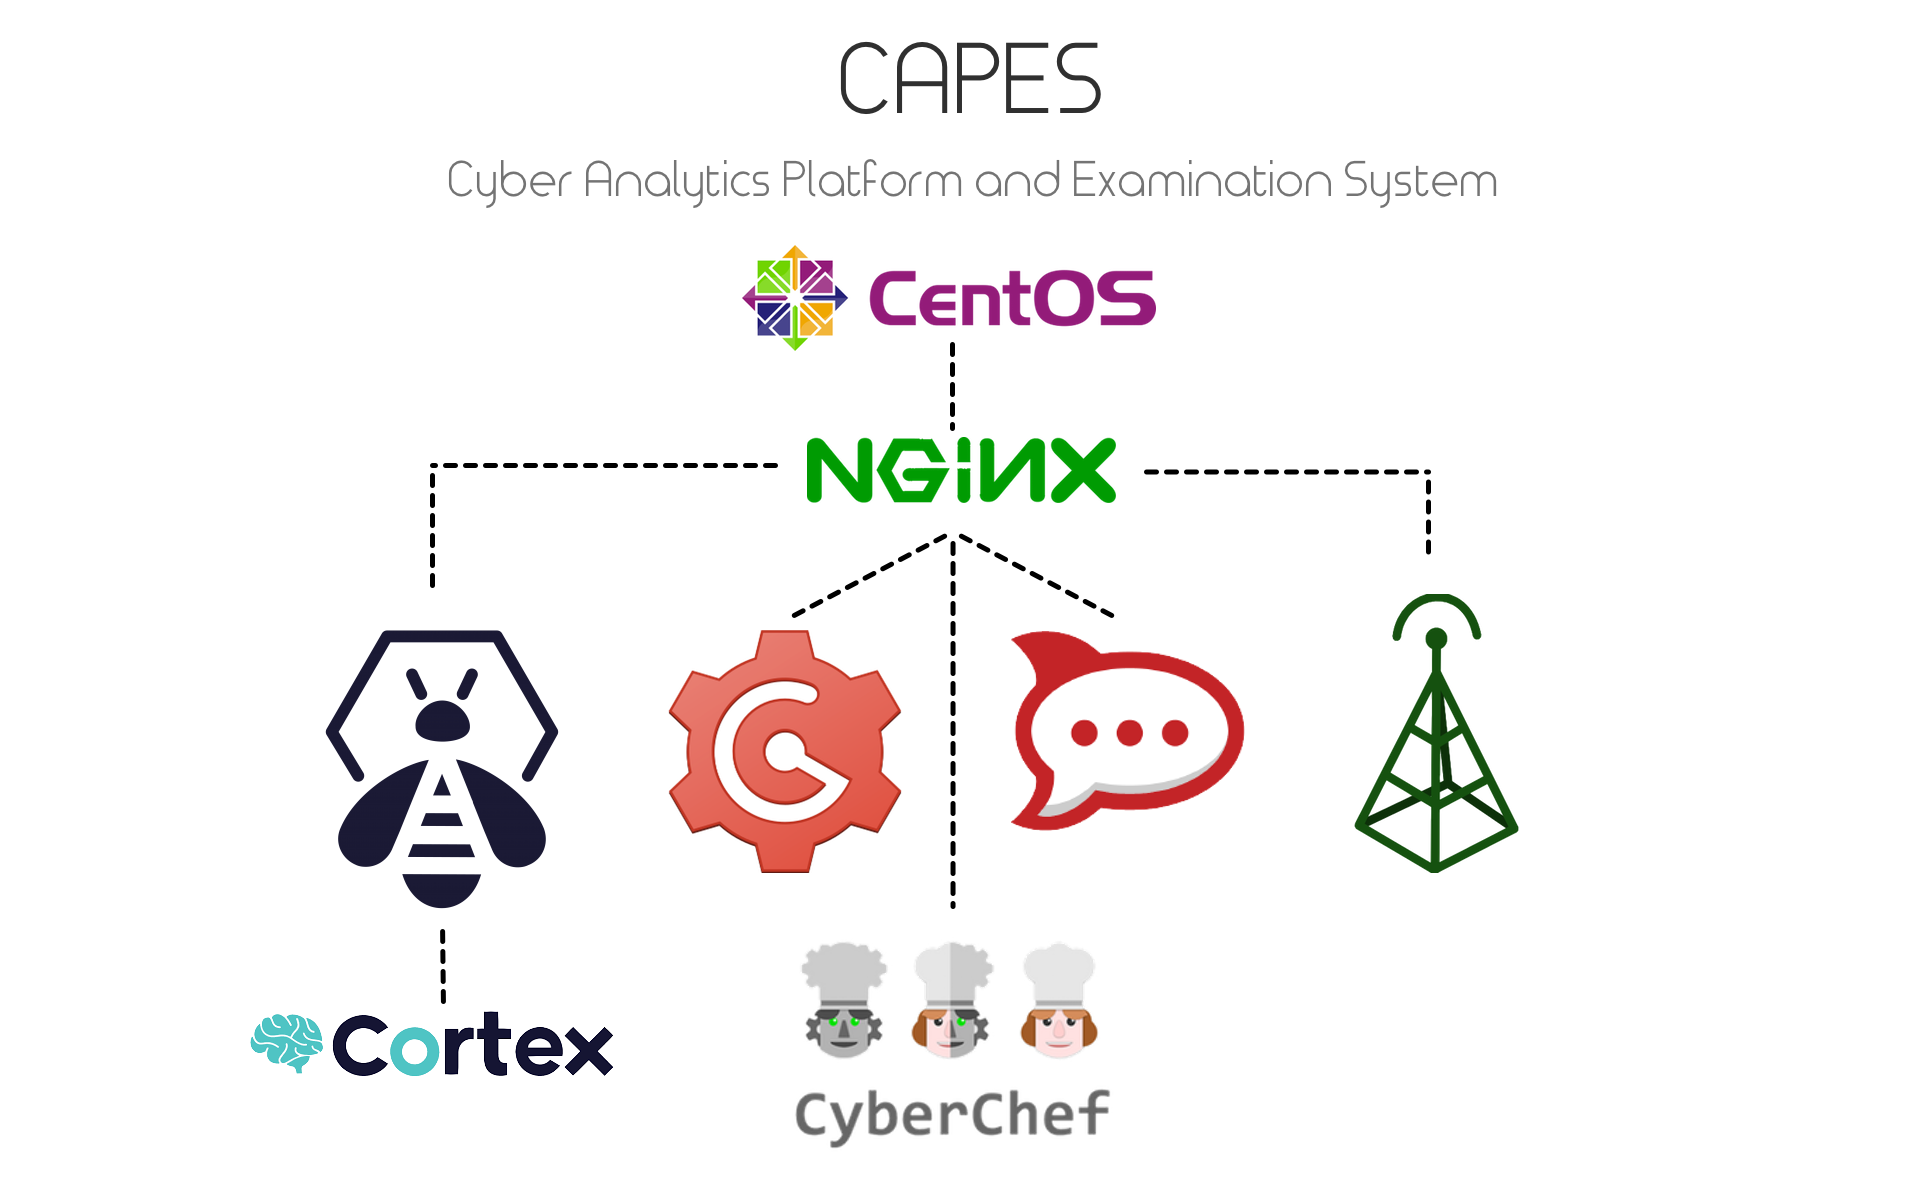
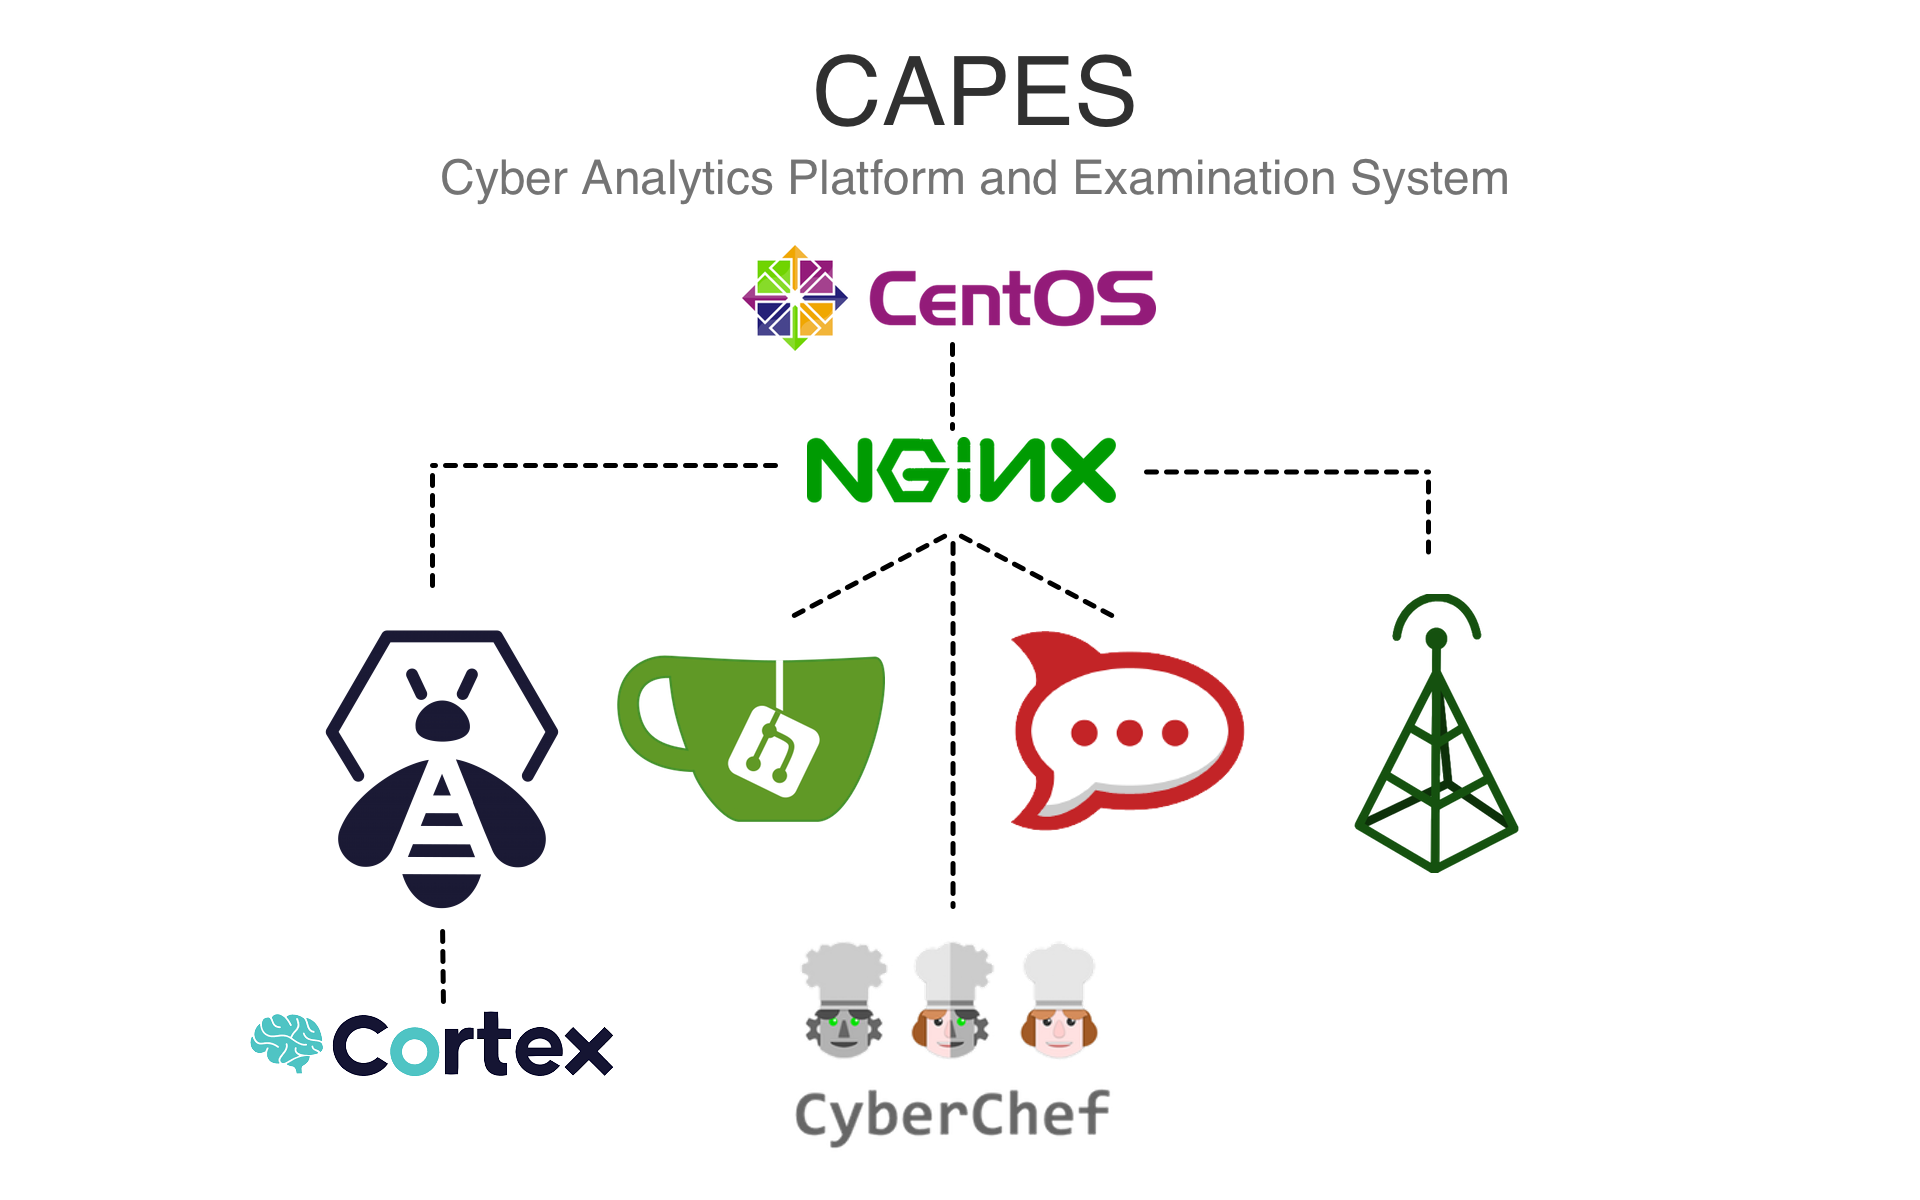
removed gogs, added gitea

Changed region(s): [[0.2188, 0.0308, 0.7812, 0.185], [0.3125, 0.5242, 0.4688, 0.74]]

diff --git a/index.md b/index.md
@@ -5,7 +5,7 @@ CAPES is an operational-focused service hub for segmented, self-hosted, and offl
 # Services in CAPES
 1. Rocketchat
 1. Etherpad
-1. GoGS
+1. Gitea
 1. CyberChef
 1. Mumble (VoIP)
 1. TheHive
@@ -17,7 +17,7 @@ CAPES is an operational-focused service hub for segmented, self-hosted, and offl
 Please see below for Build, Operate, Maintain specifics on the different web applications
 * [CAPES Landing Page](https://github.com/capesstack/capes/blob/master/landing_page/build_operate_maintain.md)  
 * [Etherpad](https://github.com/capesstack/capes/blob/master/etherpad/build_operate_maintain.md)  
-* [GoGS](https://github.com/capesstack/capes/blob/master/gogs/build_operate_maintain.md)  
+* [Gitea](https://github.com/capesstack/capes/blob/master/gitea/build_operate_maintain.md)  
 * [Rocketchat](https://github.com/capesstack/capes/blob/master/rocketchat/build_operate_maintain.md)  
 * [TheHive](https://github.com/capesstack/capes/blob/master/thehive/build_operate_maintain.md)  
 * [Cortex](https://github.com/capesstack/capes/blob/master/cortex/build_operate_maintain.md)  
@@ -73,7 +73,7 @@ sudo sh deploy_capes.sh
 This will start the automated build of:
 * Configure NTP (likely already done, but in the event you skipped the [Build your OS](https://github.com/capesstack/capes/tree/master/docs#build-your-os) steps)
 * Install Rocketchat  
-* Install GoGS  
+* Install Gitea  
 * Install Etherpad  
 * Install Mumble  
 * Install TheHive  
@@ -88,7 +88,7 @@ This will start the automated build of:
 ## Get Started
 After the CAPES installation, you should be able to browse to `http://your_capes_system` (or `http://your_capes_IP` if you don't have DNS set up) get get to the CAPES landing page and start setting up services.
 
-I **strongly** recommend that you look at the [Build, Operate, Maintain](https://github.com/capesstack/capes/tree/master/docs#documentation) guides for these services before you get going. A few of the services launch a configuration pipeline that is hard to restart if you don't complete it the first time (I'm looking at you TheHive and GoGS).
+I **strongly** recommend that you look at the [Build, Operate, Maintain](https://github.com/capesstack/capes/tree/master/docs#documentation) guides for these services before you get going. A few of the services launch a configuration pipeline that is hard to restart if you don't complete it the first time (I'm looking at you TheHive and Gitea).
 
 ## Troubleshooting
 Please see the [documentation](https://github.com/capesstack/capes/tree/master/docs#documentation) or feel free to open a [GitHub Issue](https://github.com/capesstack/capes/issues).
